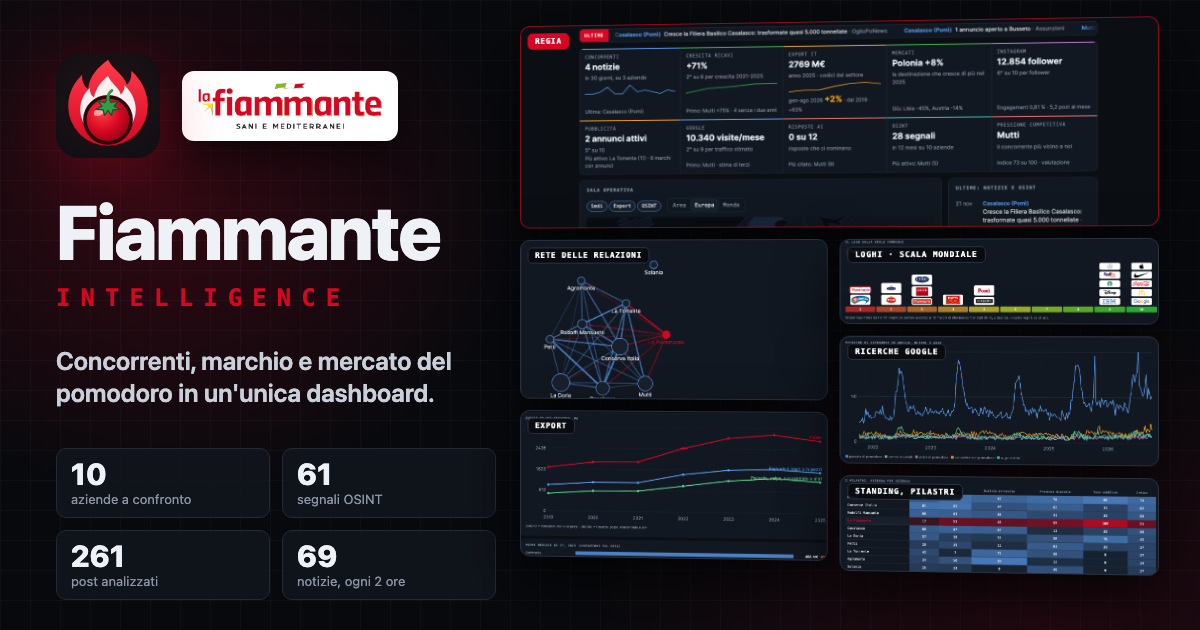
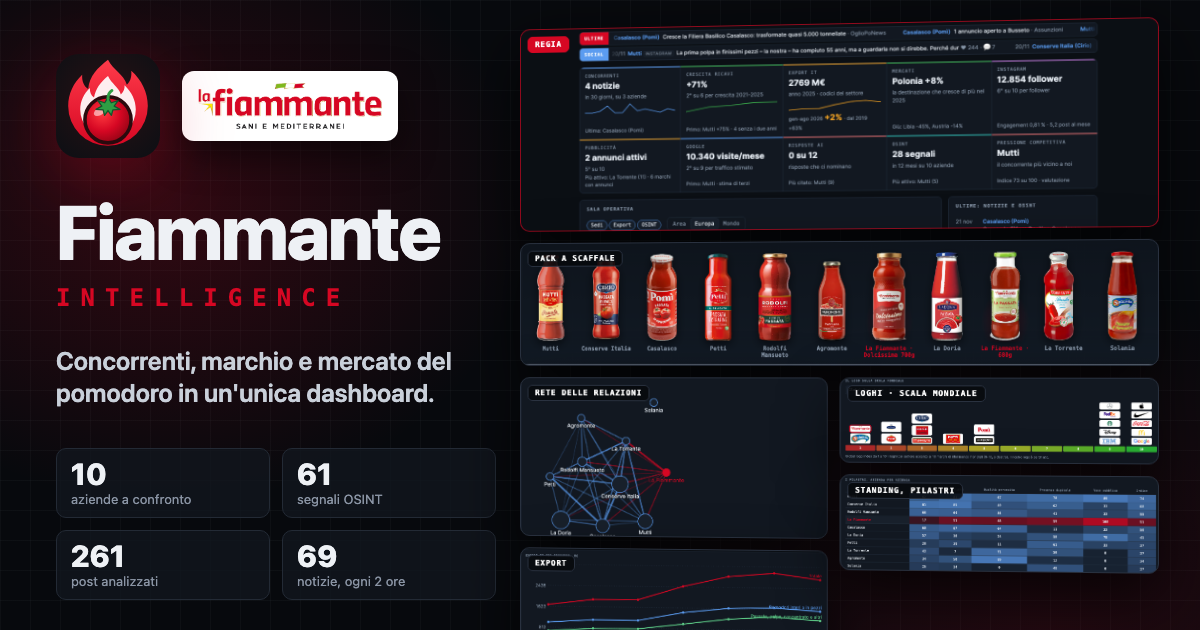
OG: Pack a scaffale a tutta larghezza

Changed region(s): [[0.4317, 0.0302, 0.9867, 1.0], [0.925, 0.0, 0.9558, 0.0302]]

diff --git a/intelligence/brand/og.js b/intelligence/brand/og.js
@@ -2,9 +2,9 @@
 const fs=require('fs'),os=require('os'),path=require('path'),{execFileSync}=require('child_process');
 const CH='/Applications/Google Chrome.app/Contents/MacOS/Google Chrome',ROOT=path.join(__dirname,'..'),J=f=>{try{return JSON.parse(fs.readFileSync(path.join(ROOT,f),'utf8'))}catch(e){return null}};
 const prof=fs.mkdtempSync(path.join(os.tmpdir(),'og-')),shot=(h,f,w,hh)=>execFileSync(CH,['--headless=new','--disable-gpu','--user-data-dir='+prof,'--hide-scrollbars','--virtual-time-budget=8000','--window-size='+w+','+hh,'--screenshot='+f,'file://'+path.join(ROOT,'index.html')+h],{stdio:'ignore'});
-// mosaico di schermate vere: [pagina, etichetta, colonna (0 = tutta la larghezza, 1, 2), ritaglio x,y,w,h in px a 1440 di larghezza]
+// mosaico di schermate vere: [pagina, etichetta, colonna (0 = tutta la larghezza in testa, 3 = tutta la larghezza sotto, 1, 2), ritaglio x,y,w,h in px a 1440 di larghezza]
 const TILES=[['','Regia',0,[0,150,1440,470]],['#rete','Rete delle relazioni',1,[136,215,824,430]],['#export','Export',1,[136,290,1164,560]],
-  ['#marchio','Loghi · scala mondiale',2,[136,170,1164,320]],['#trends','Ricerche Google',2,[136,180,1164,480]],['#standing','Standing, pilastri',2,[136,460,1168,360]]];
+  ['#marchio','Loghi · scala mondiale',2,[136,170,1164,320]],['#standing','Standing, pilastri',2,[136,460,1168,360]],['#pack','Pack a scaffale',3,[150,420,1140,225]]];
 const shots=TILES.map((t,i)=>{const f=path.join(prof,i+'.png');shot(t[0],f,1440,1100);return f});
 const M=J('data/meta.json'),az=(a=>Array.isArray(a)?a:(a||{}).aziende||[])(J("data/aziende.json")),nw=(J('news.json')||{}).items||J('news.json')||[],os_=(J('data/osint.json')||{}).items||[],po=J('data/posts.json');
 const np=po?Object.values(po.az||po).reduce((s,a)=>s+Object.values(a||{}).reduce((t,c)=>t+((c&&c.p)||[]).length,0),0):0;
@@ -28,7 +28,7 @@ h1{position:absolute;left:56px;top:196px;font-size:76px;line-height:.95;font-wei
 <h1>${(M.nome||'').replace(/ Intelligence$/,'')}<em>INTELLIGENCE</em></h1>
 <p class="tag">Concorrenti, marchio e mercato del pomodoro in un'unica dashboard.</p>
 <div class="st">${st.map(x=>`<div><b>${x[0].toLocaleString('it-IT')}</b><span>${x[1]}</span></div>`).join('')}</div>
-<div class="mo">${tile(0,652)}<div class="c2"><div>${TILES.map((t,i)=>t[2]===1?tile(i,320):'').join('')}</div><div>${TILES.map((t,i)=>t[2]===2?tile(i,320):'').join('')}</div></div></div>`;
+<div class="mo">${tile(0,652)}${TILES.map((t,i)=>t[2]===3?`<div style="margin-top:12px">${tile(i,652)}</div>`:'').join('')}<div class="c2"><div>${TILES.map((t,i)=>t[2]===1?tile(i,320):'').join('')}</div><div>${TILES.map((t,i)=>t[2]===2?tile(i,320):'').join('')}</div></div></div>`;
 const H=path.join(prof,'og.html');fs.writeFileSync(H,html);
 execFileSync(CH,['--headless=new','--disable-gpu','--user-data-dir='+prof,'--hide-scrollbars','--allow-file-access-from-files','--virtual-time-budget=3000','--window-size=1200,630','--screenshot='+path.join(__dirname,'og.png'),'file://'+H],{stdio:'ignore'});
 fs.rmSync(prof,{recursive:true,force:true});console.log('brand/og.png ok',st.map(x=>x.join(' ')).join(' · '));
